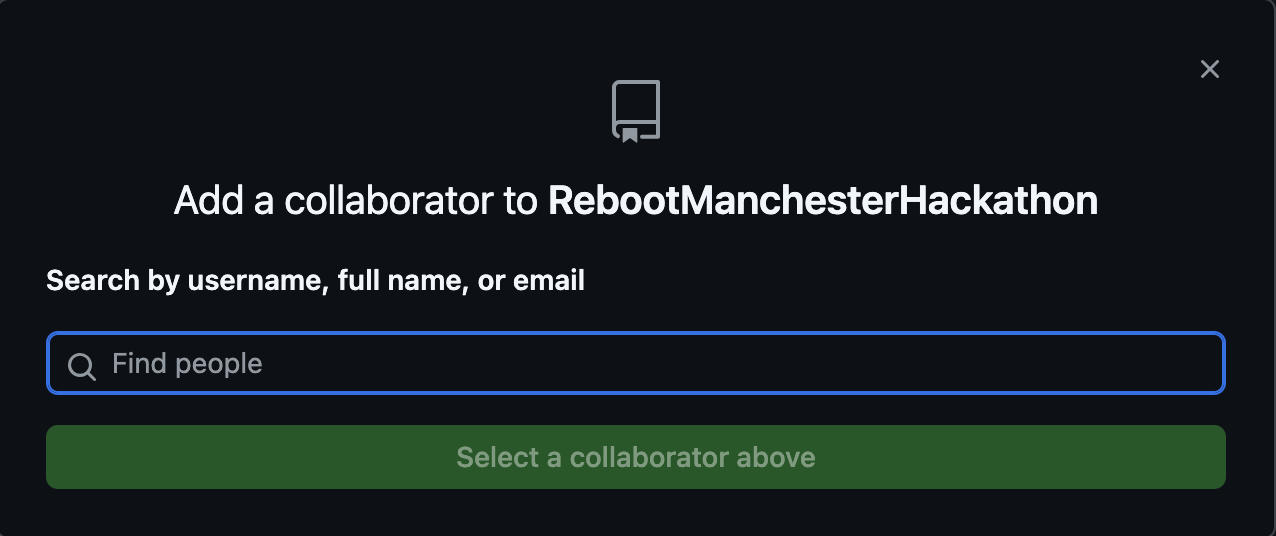
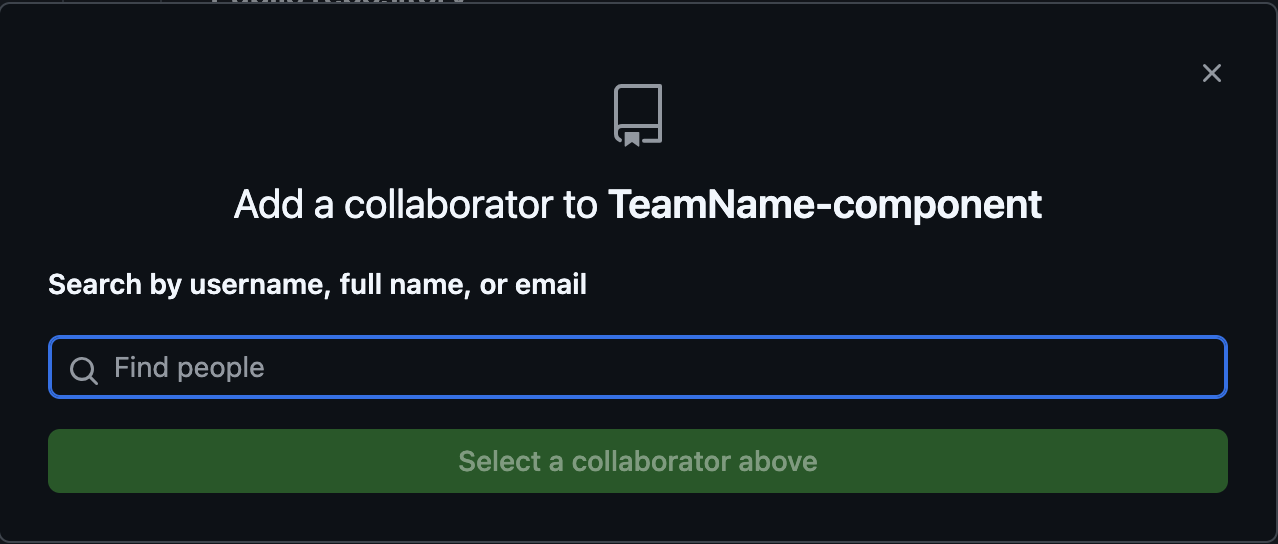
Updated README

diff --git a/README.md b/README.md
@@ -4,7 +4,7 @@ This is the repository for the Reboot Hackathon being held in Manchester.
 
 ## Fork this Repository
 
-To track each team's code repositories, any team member who's responsible for building a feature must fork this repository so that it can be incorporated into the judging criteria when selecting the winners.
+To track each team's code repositories, any team member who's responsible for building a component must fork this repository so that it can be incorporated into the judging criteria when selecting the winners.
 
 To fork this repository, select the `Fork` dropdown menu next to the title:
 
@@ -14,9 +14,16 @@ Then select `+ Create New Fork`:
 
 ![](./images/create-new-fork.png)
 
-You can keep the `Repository name`, and add an optional description of the service you intend to build.
+For the `Repository name`, please make sure you enter your team's name so that we can keep track of the different repositories.
 
-Then select `Create fork`:
+If your team is building multiple components and requires multiple repositories, fork this repository and enter the team name followed by the name of the component.
+
+For example, if you have a `frontend` and `backend` application, the first fork can be called `TeamName-frontend` and the second fork can be called `TeamName-backend`.
+
+> [!NOTE]
+> If you're only building a single component, you can leave the `Repository name` as `TeamName`.
+
+Once you've entered the name, select `Create fork`:
 
 ![](./images/create-fork.png)
 
@@ -39,5 +46,8 @@ Select `Add people`:
 And search for the `username`, `full name`, or `email` of the member you want to add to the repository.
 
 Then they can clone your repository and contribute code to your fork.
+
+> [!NOTE]
+> Please make sure to add them to your forked version of the repository. You won't be able to add them here directly.
 
 Now you're ready to start. Happy coding!
